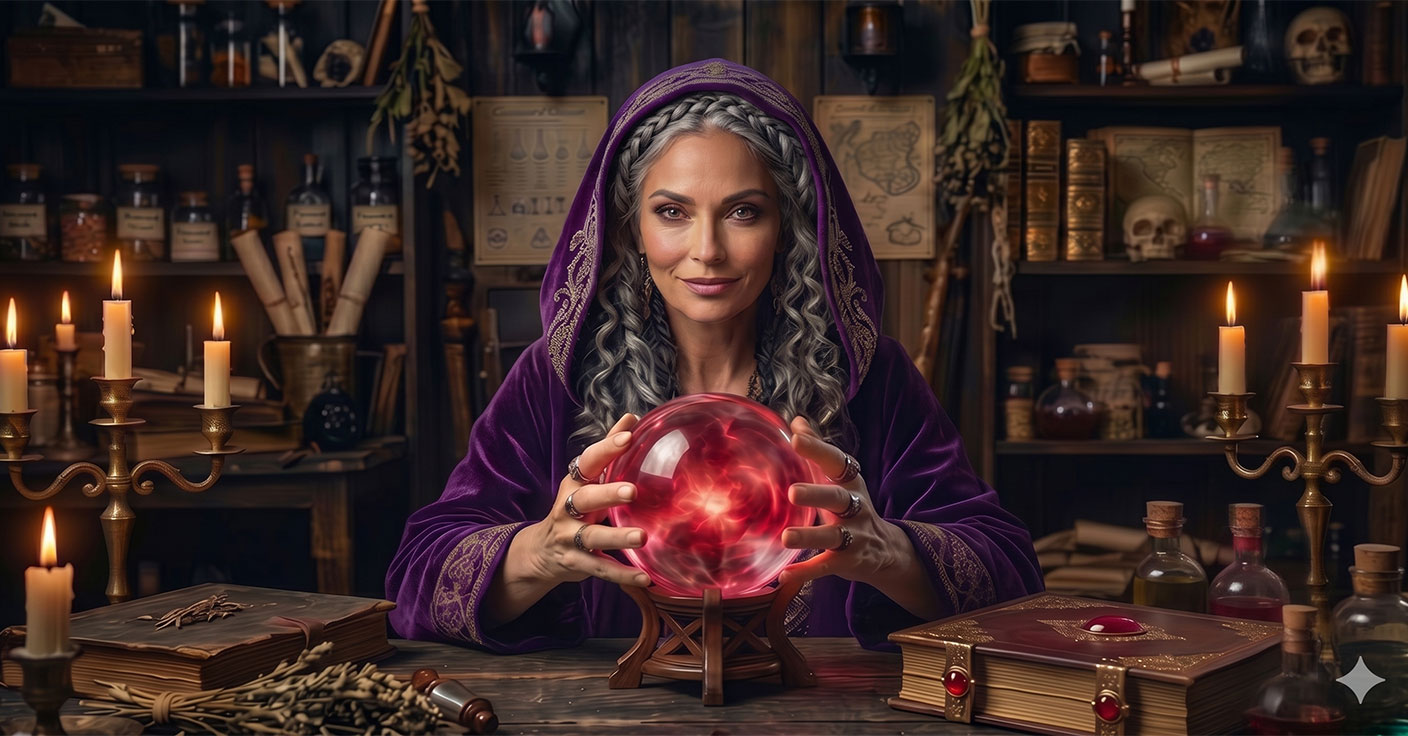
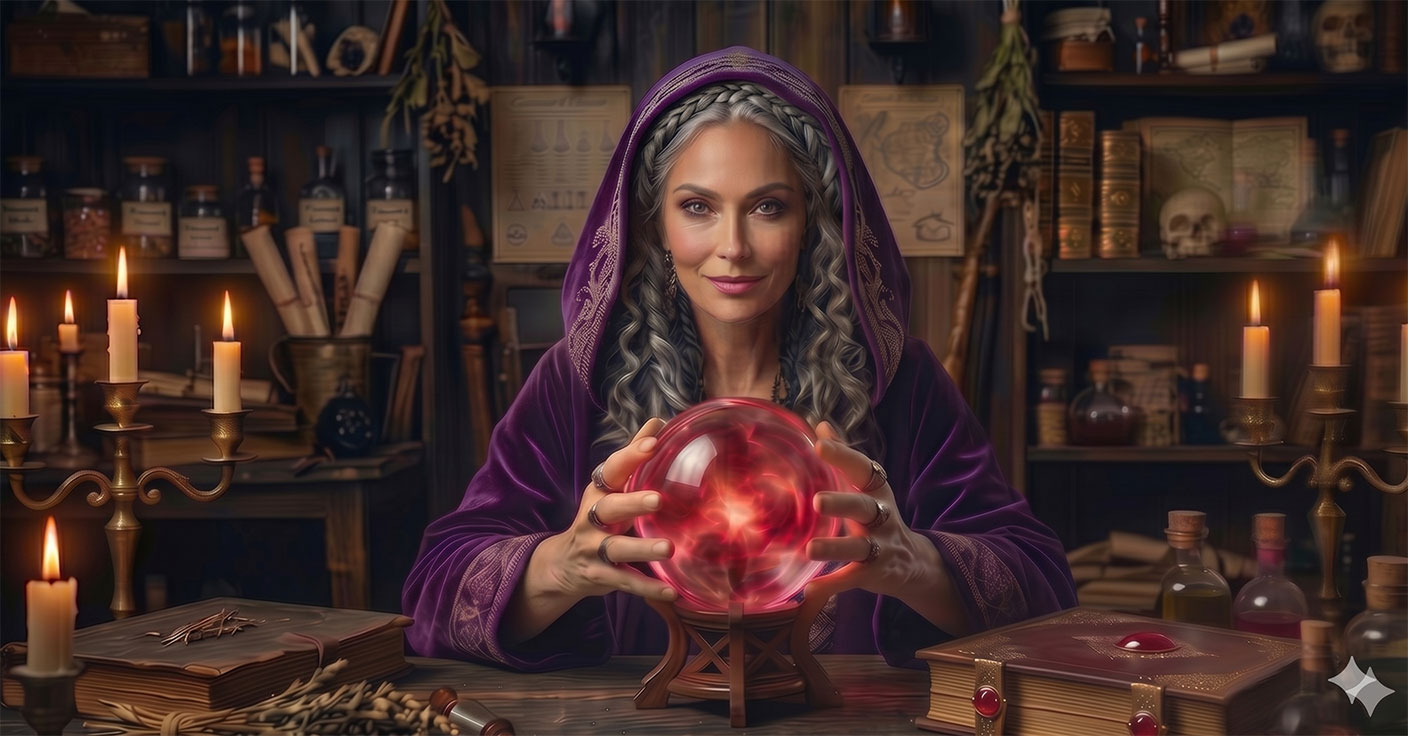
024번째 커밋: 성장 화면 UI 오버플로우 버그 수정 및 신규 마녀 이미지 반영

diff --git a/lib/screens/growth_screen.dart b/lib/screens/growth_screen.dart
@@ -112,8 +112,9 @@ class _WorldTreeTabState extends State<_WorldTreeTab> {
         final progress = (exp % 50) / 50.0;
 
         return Center(
-          child: Column(
-            mainAxisAlignment: MainAxisAlignment.center,
+          child: SingleChildScrollView(
+            child: Column(
+              mainAxisAlignment: MainAxisAlignment.center,
             children: [
               Text('세계수 레벨 $level', style: Theme.of(context).textTheme.displayLarge),
               const SizedBox(height: 20),
@@ -153,6 +154,7 @@ class _WorldTreeTabState extends State<_WorldTreeTab> {
                 ),
               ),
             ],
+          ),
           ),
         );
       },
@@ -196,8 +198,9 @@ class _CrystalBallTabState extends State<_CrystalBallTab> {
         final dust = EconomyService().magicDust;
 
         return Center(
-          child: Column(
-            mainAxisAlignment: MainAxisAlignment.center,
+          child: SingleChildScrollView(
+            child: Column(
+              mainAxisAlignment: MainAxisAlignment.center,
             children: [
               GlassContainer(
                 padding: const EdgeInsets.all(16),
@@ -251,6 +254,7 @@ class _CrystalBallTabState extends State<_CrystalBallTab> {
                 ),
               ),
             ],
+          ),
           ),
         );
       },